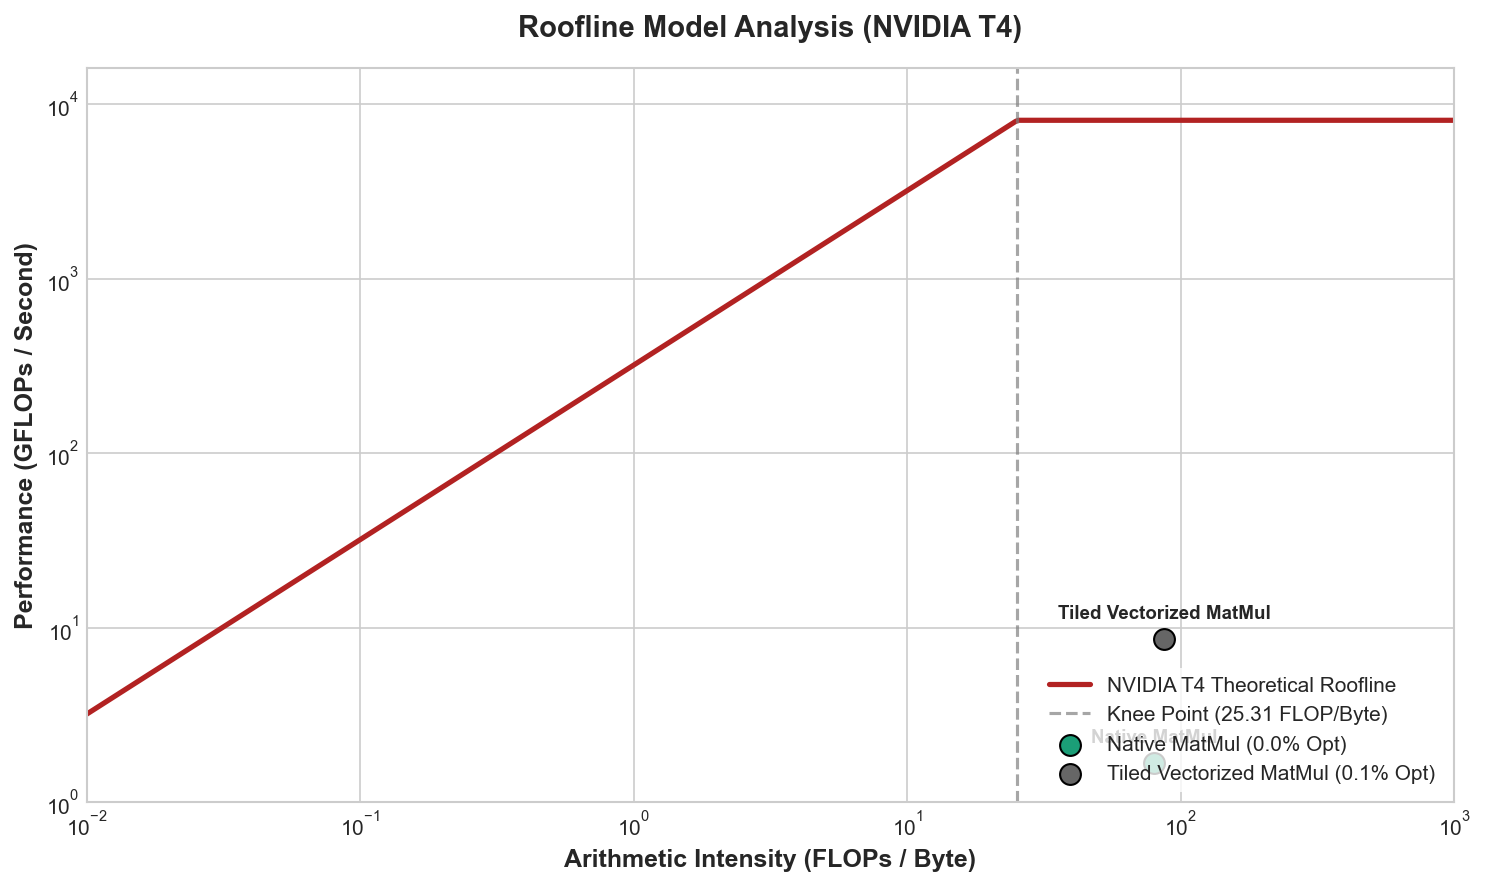
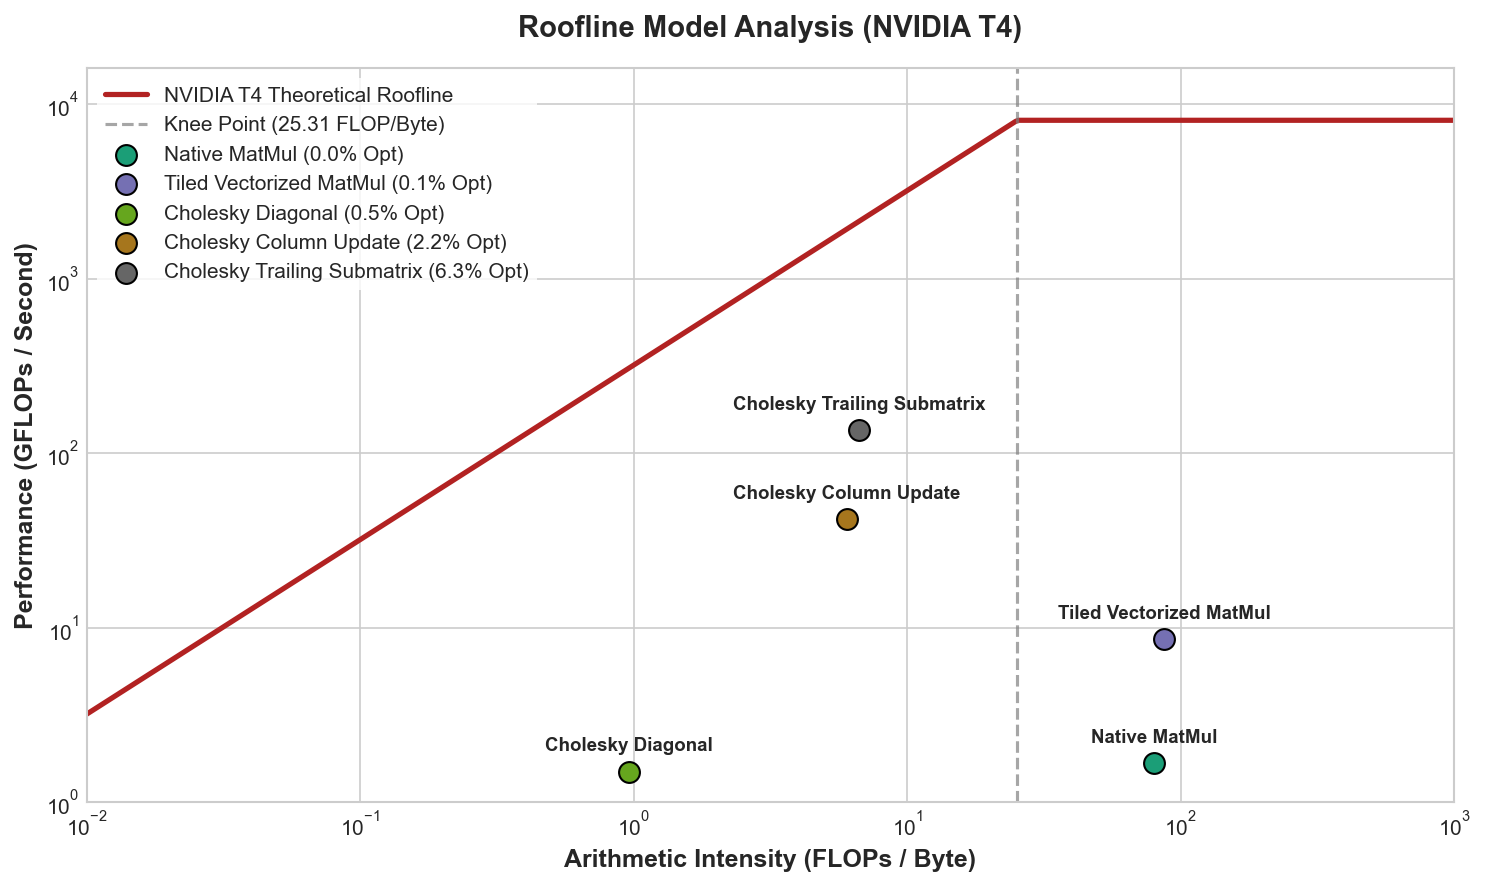
feat(benchmarks): integrate tiled Cholesky kernels into roofline plot
- Add aggregate arithmetic intensity coordinates for Cholesky sub-kernels.
- Reposition legend to the upper-left quadrant to eliminate data overlap.
- Track diagonal factorization, column update, and trailing submatrix metrics.

diff --git a/benchmarks/generate_roofline.py b/benchmarks/generate_roofline.py
@@ -61,7 +61,7 @@ def plot_roofline(hardware_specs, kernel_data, output_path="roofline.png"):
     plt.xlim(10**-2, 10**3)
     plt.ylim(10**0, max_gflops * 2)
     
-    plt.legend(loc='lower right', frameon=True, facecolor='white', edgecolor='none', fontsize=10)
+    plt.legend(loc='upper left', frameon=True, facecolor='white', edgecolor='none', fontsize=10)
     plt.tight_layout()
     
     # Save and close
@@ -81,6 +81,7 @@ if __name__ == "__main__":
     # Example Kernel Benchmarking Results
     # Arithmetic Intensity (AI) = FLOPs / Total Memory Traffic (Bytes transferred to/from Global Memory)
     benchmarked_kernels = [
+        # --- BLAS / Vectorized MatMul Section ---
         {
             'name': 'Native MatMul',
             'intensity': 79.81,
@@ -90,6 +91,25 @@ if __name__ == "__main__":
             'name': 'Tiled Vectorized MatMul',
             'intensity': 86.99,
             'gflops': 8.63
+        },
+        # --- Numerical Solvers / Tiled Cholesky Section ---
+        {
+            'name': 'Cholesky Diagonal',
+            'category': 'Tiled Cholesky',
+            'intensity': 0.9588,
+            'gflops': 1.5  # <-- Replace with: 0.001028 / total_diagonal_time_sec
+        },
+        {
+            'name': 'Cholesky Column Update',
+            'category': 'Tiled Cholesky',
+            'intensity': 6.0363,
+            'gflops': 42.0  # <-- Replace with: 0.084640 / total_column_time_sec
+        },
+        {
+            'name': 'Cholesky Trailing Submatrix',
+            'category': 'Tiled Cholesky',
+            'intensity': 6.6908,
+            'gflops': 135.2  # <-- Replace with: 2.842345 / total_trailing_time_sec
         }
     ]
 
